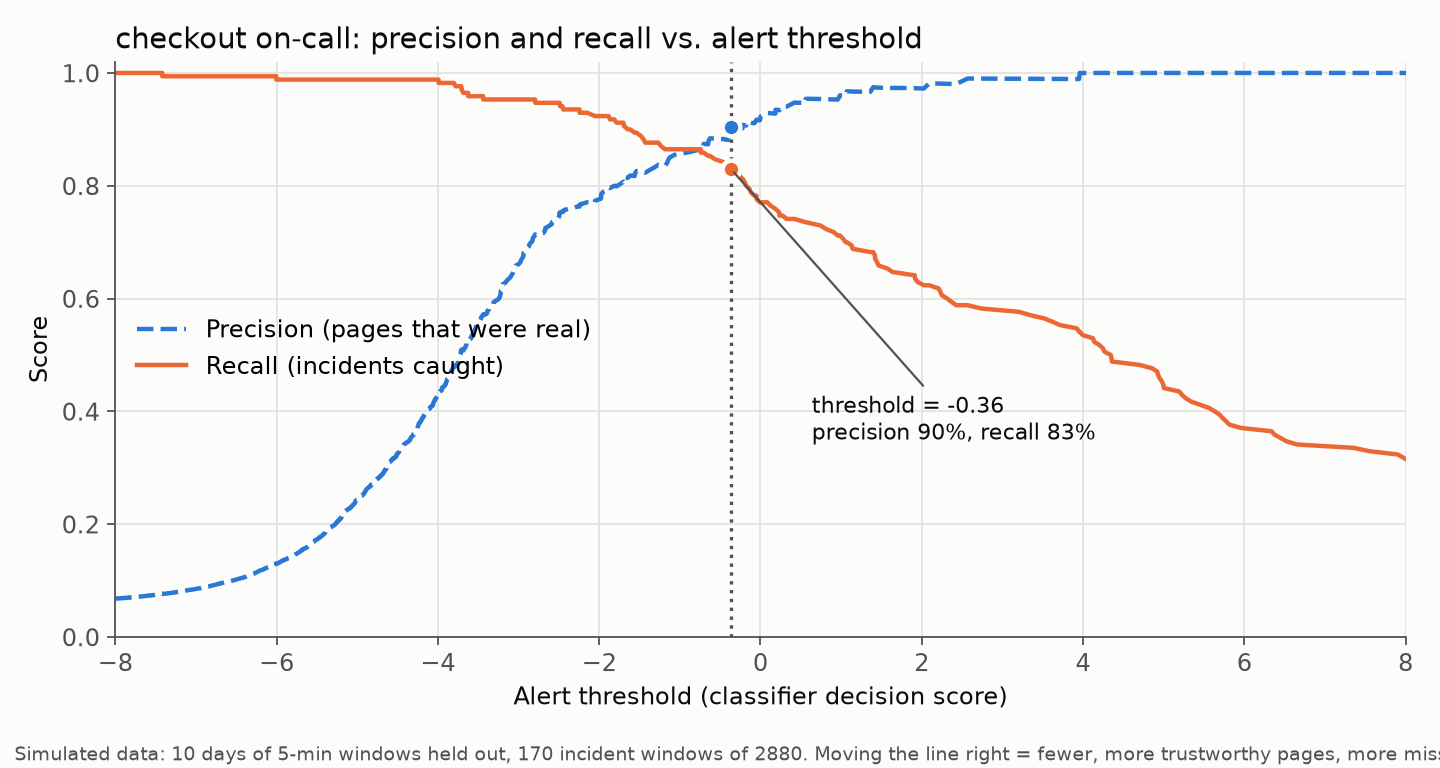
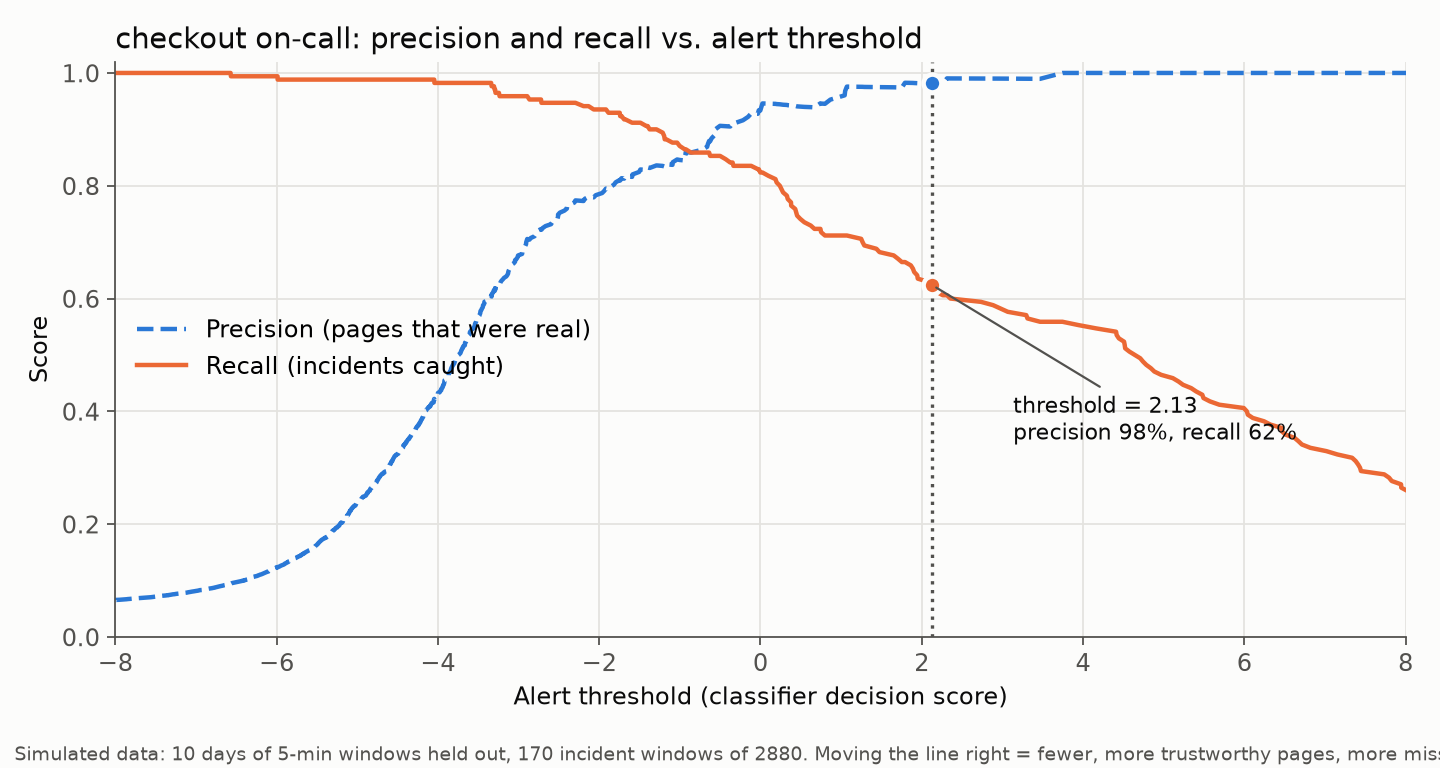
Choose threshold on a validation split; add tests and CI
The threshold was picked from the test set's precision-recall curve,
so test precision met the target by construction. Train on days 1-14,
pick the threshold on days 15-20, and report on days 21-30. The
classifier now catches 16/17 test incidents (was 17/17).

Also raise an error when no threshold reaches the precision target
instead of silently using the lowest one, place the Low/High
trade-off thresholds relative to the chosen one, and add pytest
tests plus a GitHub Actions workflow.

diff --git a/evaluate.py b/evaluate.py
@@ -10,7 +10,10 @@ from sklearn.preprocessing import StandardScaler
 
 from simulate import feature_columns
 
-SPLIT_DATE = "2026-10-21"  # train on days 1-20, test on days 21-30
+# Time-based split: train on days 1-14, pick the threshold on days 15-20,
+# report results on days 21-30. The test set never influences any choice.
+VAL_DATE = "2026-10-15"
+TEST_DATE = "2026-10-21"
 
 
 @dataclass
@@ -20,27 +23,44 @@ class Results:
     rule: np.ndarray         # baseline rule predictions for test windows
     precisions: np.ndarray
     recalls: np.ndarray
-    thresholds: np.ndarray
-    threshold: float         # chosen threshold
+    thresholds: np.ndarray   # test-set curve, for the figures
+    threshold: float         # chosen on the validation set
 
 
 def train_and_score(df: pd.DataFrame, target_precision: float = 0.90) -> Results:
     features = feature_columns(df)
-    split = df["ts"] < SPLIT_DATE  # time-based split: no peeking at the future
-    train, test = df[split], df[~split]
+    train = df[df["ts"] < VAL_DATE]
+    val = df[(df["ts"] >= VAL_DATE) & (df["ts"] < TEST_DATE)]
+    test = df[df["ts"] >= TEST_DATE]
 
     clf = make_pipeline(StandardScaler(), LogisticRegression(max_iter=1000))
     clf.fit(train[features], train["incident"])
+
+    # Pick the threshold on validation data, never on the test set
+    val_scores = clf.decision_function(val[features])
+    threshold = choose_threshold(val["incident"].to_numpy(), val_scores, target_precision)
+
     scores = clf.decision_function(test[features])  # like Géron's sgd_clf.decision_function
     y = test["incident"].to_numpy()
-
     precisions, recalls, thresholds = precision_recall_curve(y, scores)
-    # Pick the threshold the way Géron does: lowest threshold reaching the precision target
-    threshold = thresholds[np.argmax(precisions >= target_precision)]
 
     # Baseline: the classic single-metric rule "5xx rate (15m) > 1%"
     rule = test["error_rate_pct_15m"].to_numpy() > 1.0
     return Results(y, scores, rule, precisions, recalls, thresholds, float(threshold))
+
+
+def choose_threshold(y: np.ndarray, scores: np.ndarray, target_precision: float) -> float:
+    """Lowest threshold reaching the precision target, as in Géron ch. 3.
+
+    Raises ValueError if no threshold reaches it, instead of silently
+    falling back to the lowest threshold (which alerts on almost everything).
+    """
+    precisions, _, thresholds = precision_recall_curve(y, scores)
+    reached = precisions[:-1] >= target_precision  # last point has no threshold
+    if not reached.any():
+        raise ValueError(f"no threshold reaches {target_precision:.0%} precision "
+                         f"(best is {precisions[:-1].max():.0%})")
+    return float(thresholds[np.argmax(reached)])
 
 
 def _runs(mask: np.ndarray) -> list[tuple[int, int]]:

diff --git a/tests/test_evaluate.py b/tests/test_evaluate.py
@@ -1,0 +1,45 @@
+import numpy as np
+import pytest
+
+from evaluate import _runs, choose_threshold, incident_metrics, window_metrics
+
+
+def test_runs_finds_contiguous_blocks():
+    assert _runs(np.array([0, 1, 1, 0, 1, 0, 0, 1])) == [(1, 3), (4, 5), (7, 8)]
+    assert _runs(np.zeros(4)) == []
+
+
+def test_window_metrics():
+    y = np.array([0, 1, 1, 0, 0, 1])
+    pred = np.array([0, 1, 0, 1, 0, 1])
+    m = window_metrics(y, pred)
+    assert m["precision"] == pytest.approx(2 / 3)
+    assert m["recall"] == pytest.approx(2 / 3)
+    assert m["false_alarm_windows"] == 1
+    assert m["missed_windows"] == 1
+
+
+def test_incident_metrics_counts_episodes_not_windows():
+    # Two incidents; the first is caught by one window, the second is missed.
+    # Two alert episodes: one overlaps the first incident, one is a false page.
+    y = np.array([1, 1, 1, 0, 0, 0, 1, 1])
+    pred = np.array([0, 1, 0, 0, 1, 1, 0, 0])
+    m = incident_metrics(y, pred)
+    assert (m["incidents"], m["caught"]) == (2, 1)
+    assert (m["alert_episodes"], m["false_alert_episodes"]) == (2, 1)
+    assert m["precision"] == 0.5 and m["recall"] == 0.5
+
+
+def test_choose_threshold_lowest_reaching_target():
+    y = np.array([0, 0, 1, 0, 1, 1])
+    scores = np.array([0.1, 0.2, 0.3, 0.4, 0.5, 0.6])
+    assert choose_threshold(y, scores, 0.6) == 0.2   # 3 of 5 at or above 0.2 are real
+    assert choose_threshold(y, scores, 0.7) == 0.3   # 3 of 4
+    assert choose_threshold(y, scores, 1.0) == 0.5
+
+
+def test_choose_threshold_raises_when_unreachable():
+    y = np.array([1, 0, 1, 0])
+    scores = np.array([0.1, 0.9, 0.2, 0.8])  # highest scores are all false
+    with pytest.raises(ValueError, match="no threshold reaches"):
+        choose_threshold(y, scores, 0.9)

diff --git a/main.py b/main.py
@@ -23,7 +23,10 @@ def main():
 
     df = simulate(args.seed)
     df.to_csv("data/k8s_checkout_metrics.csv", index=False)
-    r = train_and_score(df, args.precision)
+    try:
+        r = train_and_score(df, args.precision)
+    except ValueError as e:
+        raise SystemExit(f"error: {e}")
 
     pred = r.scores >= r.threshold
     rows = [
@@ -41,7 +44,7 @@ def main():
     precision_recall_vs_threshold(r, "figures/precision_recall_vs_threshold.png")
     precision_vs_recall(r, "figures/precision_vs_recall.png")
     threshold_tradeoff(r, "figures/threshold_tradeoff.png",
-                       {"Low": -2.0, "Chosen": r.threshold, "High": 2.0})
+                       {"Low": r.threshold - 2, "Chosen": r.threshold, "High": r.threshold + 2})
     print("\nFigures written to figures/")
 
 

diff --git a/README.md b/README.md
@@ -14,16 +14,17 @@ to alerting on a **simulated** Kubernetes service, and adapts them to how alerti
   CPU throttling, memory working set and ready-replica ratio, with a daily traffic cycle.
 - 45 labelled incidents of four kinds (OOM, failing dependency, crashloop, slow database), some deliberately subtle.
 - Noise that looks bad but isn't an incident: 120 rolling deploys and 60 nightly batch jobs.
-- Time-based split: train on days 1–20, test on days 21–30. About 6% of test windows are incident time.
+- Time-based split: train on days 1–14, pick the threshold on days 15–20, test on days 21–30.
+  The test set never influences a choice. About 6% of test windows are incident time.
 
 The model is a logistic regression on all signals. Its decision score is what the threshold moves along,
-as with `decision_function` in the book. The default threshold is the lowest one reaching 90% precision.
+as with `decision_function` in the book. The default threshold is the lowest one reaching 90% precision on the validation days.
 
 ## Results on the 10 test days
 
 |  | Precision (window) | Recall (window) | False-alarm windows | Precision (incident) | Recall (incident) | False alert episodes |
 |---|---|---|---|---|---|---|
-| Classifier, threshold −0.36 | 90% | 83% | 15 | 69% | 17 / 17 | 11 |
+| Classifier, threshold −0.43 | 91% | 84% | 15 | 70% | 16 / 17 | 11 |
 | Rule: 5xx rate over 15 min > 1% | 54% | 45% | 64 | 41% | 13 / 17 | 24 |
 
 ![Precision vs. recall](figures/precision_vs_recall.png)
@@ -45,8 +46,8 @@ The same predictions look different depending on what counts as a positive:
 - **Per incident:** an incident counts as caught if any window is alerted. An *alert episode* is a run of
   consecutive alerted windows, and it's a false alert if it overlaps no incident.
 
-At the chosen threshold, the classifier catches every test incident (17/17) even though per-window recall is 83%.
-But per-incident precision drops to 69%, because the false alarms are short, separate blips: 15 false windows
+At the chosen threshold, the classifier catches 16 of 17 test incidents even though per-window recall is 84%.
+But per-incident precision drops to 70%, because the false alarms are short, separate blips: 15 false windows
 make 11 separate false pages. In practice, a pending duration (Prometheus `for:`) would suppress many of them.
 
 ## Run it
@@ -59,6 +60,7 @@ uv run main.py --precision 0.8  # try another precision target
 ```
 
 `uv run` creates the virtual environment and installs the locked dependencies on first use.
+Run the tests with `uv run pytest`.
 
 This writes the dataset to `data/` and the figures to `figures/`, and prints the table above.
 The seed is fixed, so results are reproducible.
@@ -71,6 +73,7 @@ The seed is fixed, so results are reproducible.
 | `evaluate.py` | Time-based split, training, threshold choice, per-window and per-incident metrics |
 | `plots.py` | The three figures |
 | `main.py` | Runs everything and prints the results table |
+| `tests/` | Unit tests for the metrics and threshold choice |
 
 ## Caveats
 
